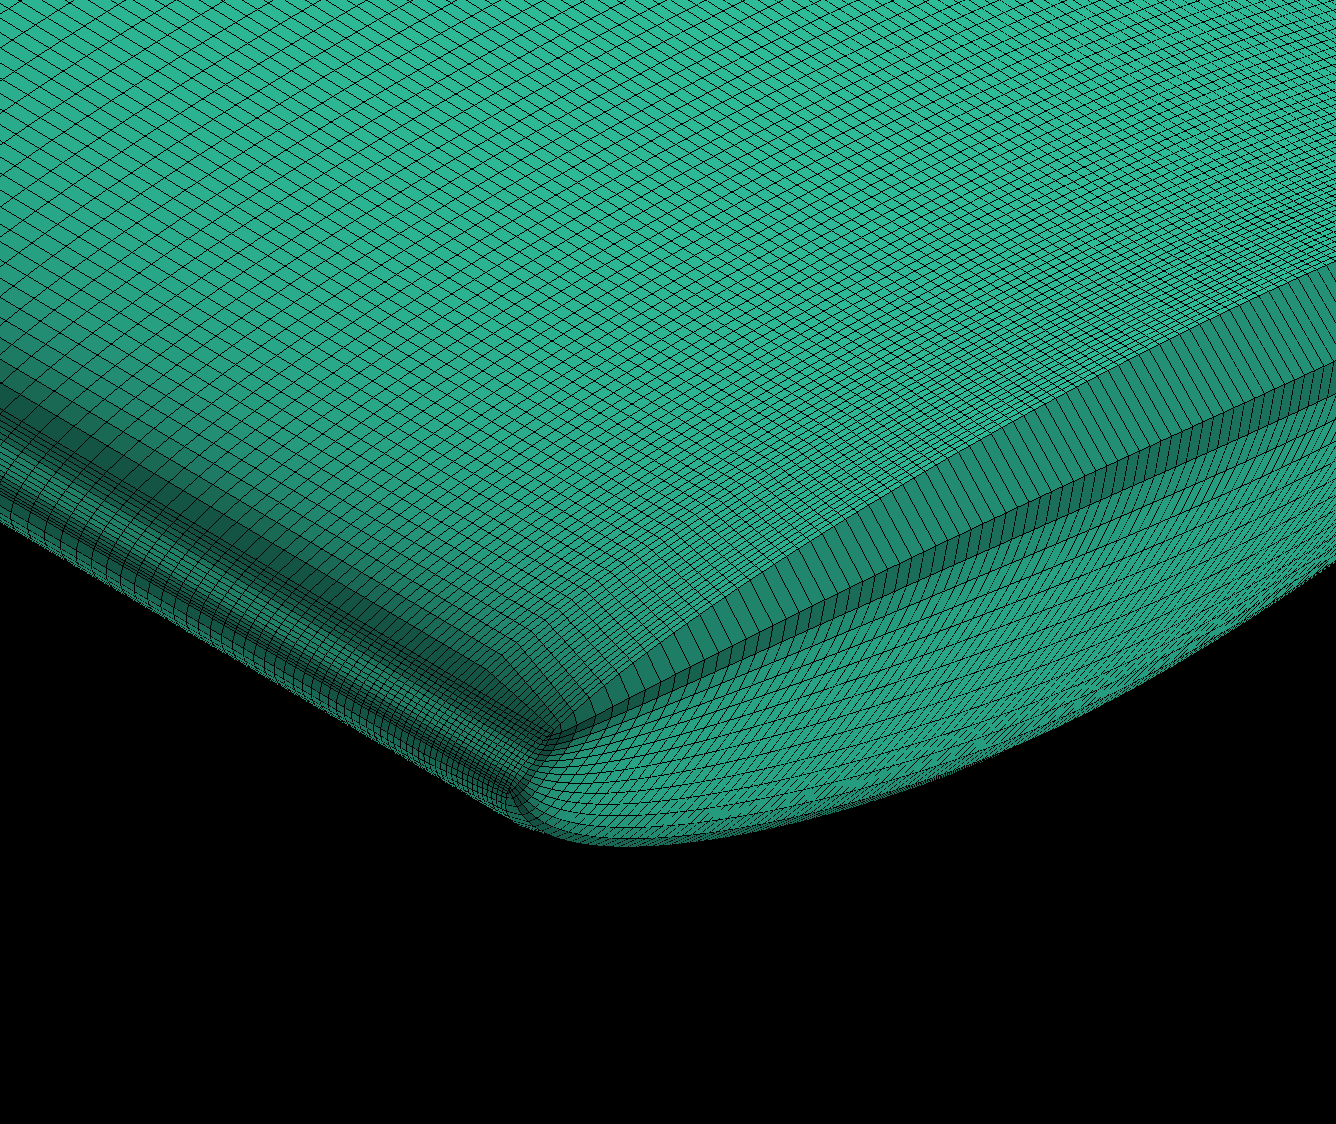
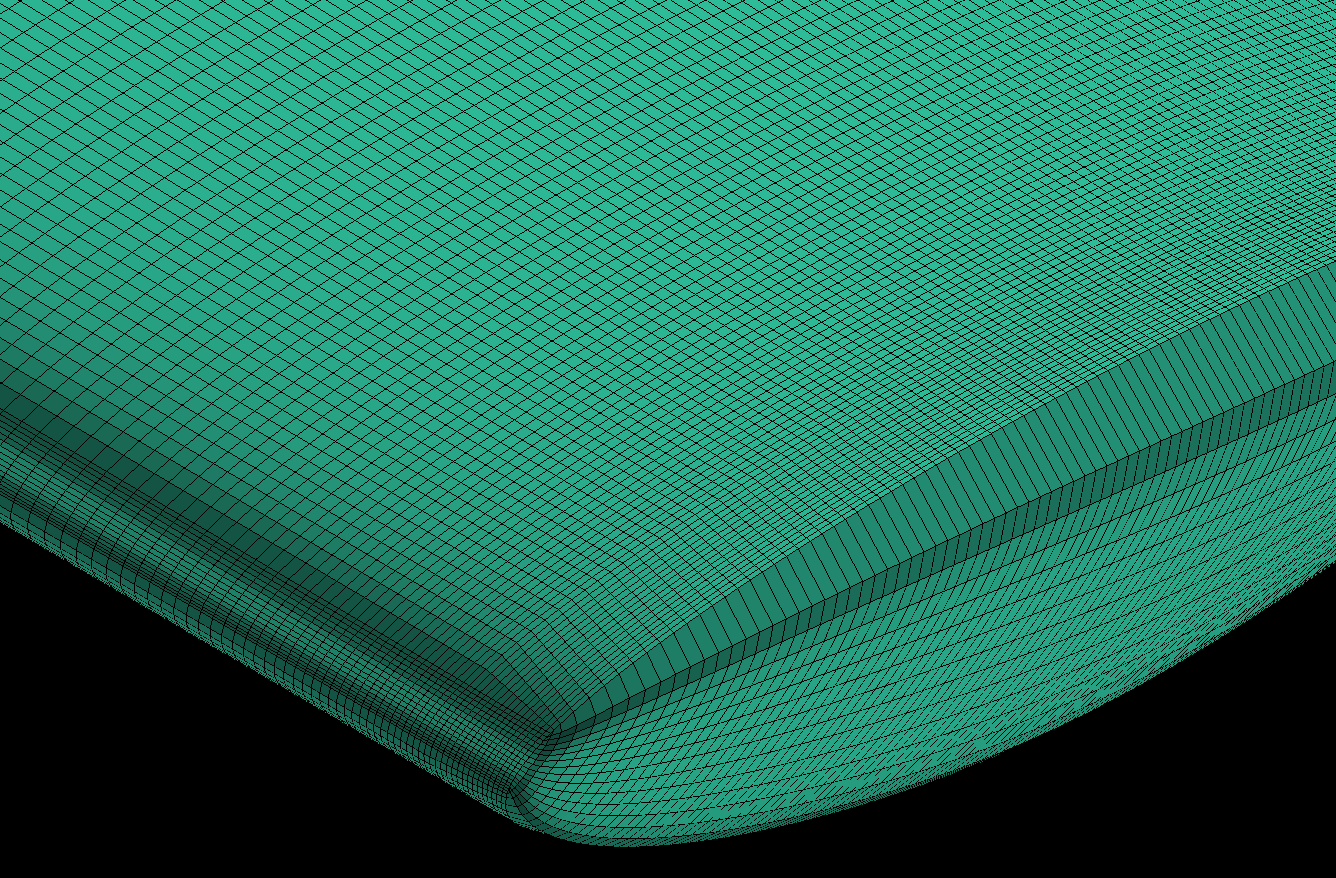
Some minor edits and comments

diff --git a/doc/aero_icem.rst b/doc/aero_icem.rst
@@ -372,7 +372,7 @@ For this case, we will define properties for the edges of the blocks which will 
     .. note:: For reference, in the menu shown above, the numbers in the gray boxes next to some items (e.g., ``Spacing 1`` and ``Spacing 2``) show the smallest values that can actually be achieved. Also, the ``linked`` numbers shown when linking edges (e.g., ``linked 22 26``) correspond to the numbers of the vertices of the edges. These numbers can be displayed by checking ``Vertices`` in the model tree and then right-clicking it and clicking on ``Numbers``. These numbers can be used to verify that the correct edges are selected while linking.
     
     Similarly, we will now set the ``Edge Params`` for the longer horizontal leading and trailing edges.
-    Select the top edge at the leading side, enter 161 for ``Nodes``, select ``Hyperbolic`` for the ``Mesh law``, link ``Sp2`` to the horizontal edge closer to the wingtip that we set parameters for right before this, click the box for ``Copy Parameters`` if it is not already selected by default, and accept the options.
+    Select the top edge at the leading side, enter 161 for ``Nodes``, select ``Hyperbolic`` for the ``Mesh law``, set ``Spacing 1`` to 0.1, link ``Sp2`` to the horizontal edge closer to the wingtip that we set parameters for right before this, click the box for ``Copy Parameters`` if it is not already selected by default, and accept the options.
     At this point the mesh should look something like the following at the wingtip.
     
     .. image:: images/icem_BadMesh2.png
@@ -468,6 +468,9 @@ The window is shown below.
     :scale: 80
 
 The surface mesh is now ready for use in pyHyp.
+To proceed to the next tutorial (volume meshing with pyHyp), reduce the number of nodes specified for the edges so far (e.g., 17 to 5, and 161 to 41), and convert and export the mesh again.
+Or use the ``wing.cgns`` file provided in ``machtutorial/tutorial/aero/meshing/surface``.
+This should reduce computational time and the probability of pyHyp failing with the default options provided in the following tutorial and the mesh generated so far.
 
 .. centered::
     :ref:`aero_pygeo` | :ref:`aero_pyhyp`
